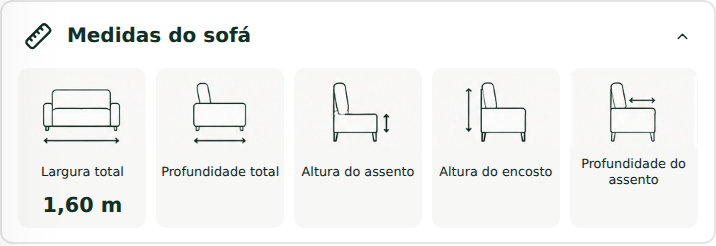
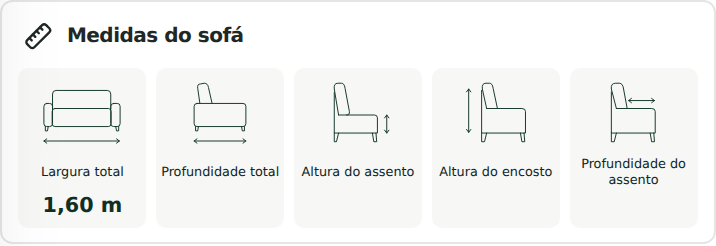
Keep sofa measurements open and render crisp vector drawings

diff --git a/src/pages/Produto.tsx b/src/pages/Produto.tsx
@@ -24,23 +24,12 @@ import { useSiteSettings, applyCardMarkup } from "@/contexts/SiteSettingsContext
 import { DiagramaViewer } from "@/components/DiagramaViewer";
 
 
-// Exact artwork from the approved reference. Each viewport shows only its drawing;
-// labels and values remain accessible HTML and continue to use the selected model.
-const measurementArtwork: Record<string, number> = {
-  width: 45, depth: 238, seatHeight: 428, backHeight: 625, seatDepth: 816,
-};
+// Vector contours traced from the approved artwork: crisp at every zoom level.
 function MeasurementDrawing({kind,label,large=false}:{kind:string;label:string;large?:boolean}) {
   return (
-    <svg viewBox="0 0 178 108"
-      role="img" aria-label={`Desenho técnico: ${label}`}
-      className={large ? "measurement-artwork measurement-artwork-large" : "measurement-artwork"}>
-      <rect width="178" height="108" fill="#f7f7f5" />
-      <svg aria-hidden="true" x="0" y="0" width="178" height="100"
-        viewBox={`${measurementArtwork[kind] ?? 45} 895 ${kind === "seatDepth" ? 171 : 178} 100`}
-        preserveAspectRatio="xMidYMin meet" overflow="hidden">
-        <image href="/images/medidas-referencia-aprovada.jpg" width="1024" height="1536" />
-      </svg>
-    </svg>
+    <img src={`/images/medidas/${kind}.svg`} alt={`Desenho técnico: ${label}`}
+      width="178" height="108"
+      className={large ? "measurement-artwork measurement-artwork-large" : "measurement-artwork"} />
   );
 }
 
@@ -73,7 +62,6 @@ export default function Produto() {
   const [sizeSheetOpen, setSizeSheetOpen] = useState(false);
   const [mainImageIdx, setMainImageIdx] = useState(0);
   const [lightboxOpen, setLightboxOpen] = useState(false);
-  const [measurementsExpanded, setMeasurementsExpanded] = useState(true);
   const [activeMeasurement, setActiveMeasurement] = useState<{label:string;kind:string;value:string} | null>(null);
   const [lightboxIdx, setLightboxIdx] = useState(0);
   const [previewFabric, setPreviewFabric] = useState<{ albumId: string; index: number } | null>(null);
@@ -328,11 +316,10 @@ export default function Produto() {
                 ];
                 return (
                   <section className="sofa-measurements mb-5" aria-label="Medidas do sofá">
-                    <button type="button" aria-expanded={measurementsExpanded} onClick={() => setMeasurementsExpanded(v => !v)} className="measurement-toggle" aria-controls="sofa-measurement-cards">
+                    <h2 className="measurement-toggle">
                       <Ruler className="measurement-ruler" /> Medidas do sofá
-                      {measurementsExpanded ? <ChevronUp className="ml-auto h-5 w-5" /> : <ChevronDown className="ml-auto h-5 w-5" />}
-                    </button>
-                    {measurementsExpanded && <div id="sofa-measurement-cards" className="measurement-cards">
+                    </h2>
+                    <div id="sofa-measurement-cards" className="measurement-cards">
                       {items.map(({ label, value, kind }) => {
                         return (
                           <button type="button" key={kind} onClick={() => setActiveMeasurement({label,kind,value:typeof value === "number" ? (value > 0 ? `${new Intl.NumberFormat("pt-BR", { minimumFractionDigits: 2, maximumFractionDigits: 2 }).format(value / 100)} m` : "") : (value || "")})} aria-label={`Ampliar ${label}`} className="measurement-card">
@@ -342,7 +329,7 @@ export default function Produto() {
                           </button>
                         );
                       })}
-                    </div>}
+                    </div>
                   </section>
                 );
               })()}

diff --git a/src/index.css b/src/index.css
@@ -319,7 +319,6 @@
   text-align: left; font-size: 2.95cqw; font-weight: 600;
 }
 .measurement-ruler { transform: scaleX(-1); width: 4.2cqw; height: 4.2cqw; flex-shrink: 0; }
-.measurement-toggle > svg:last-child { width: 2.5cqw; height: 2.5cqw; }
 .measurement-cards { display: grid; grid-template-columns: repeat(5, minmax(0, 1fr)); gap: 1.55%; width: 100%; }
 .measurement-card {
   display: flex; flex-direction: column; align-items: center;
@@ -336,7 +335,7 @@
   color: #10251e;
 }
 .measurement-value { margin-top: .5cqw; min-height: 3.8cqw; font-size: 3.05cqw; line-height: 1.2; font-weight: 700; white-space: nowrap; }
-.measurement-card:focus-visible, .measurement-toggle:focus-visible { outline: 2px solid #15372c; outline-offset: 3px; }
+.measurement-card:focus-visible { outline: 2px solid #15372c; outline-offset: 3px; }
 @media (hover: hover) and (pointer: fine) {
   .group:hover .product-photo-hint { opacity: 1; }
 }

diff --git a/docs/qa/pacote2-medidas/README.md b/docs/qa/pacote2-medidas/README.md
@@ -4,9 +4,9 @@ Referência aprovada: imagem enviada pelo proprietário em 31/10/2026.
 
 ## Implementação
 
-- Os cinco desenhos exibem a própria arte aprovada, por viewports SVG sobre a imagem original. Não foram redesenhados.
+- Os cinco desenhos usam contornos vetoriais em SVG traçados sobre as formas da referência aprovada. Não há imagem raster na ampliação.
 - Cartões HTML continuam clicáveis; a ampliação mostra o desenho correspondente e o valor dinâmico.
-- A seção mantém expandir/recolher e cinco colunas em todas as larguras.
+- A seção fica sempre aberta, sem botão ou seta de expandir/recolher, conforme solicitação posterior do proprietário. Cinco colunas são mantidas em todas as larguras.
 - Proporções, espaços, cor e tipografia da faixa escalam juntos com a largura disponível.
 - O aviso preto da foto aparece somente em dispositivos com ponteiro que suporta hover, evitando a retenção do aviso em telas de toque.
 - Nenhuma alteração em API, banco, preços ou produção. Destino exclusivo: branch preview.
@@ -15,8 +15,8 @@ Referência aprovada: imagem enviada pelo proprietário em 31/10/2026.
 
 - Build Vite e checagem TypeScript.
 - Cinco testes existentes de associações de variações e cache de restrições aprovados.
-- Playwright: 320, 375, 390 e 1440 px; cinco cartões na mesma linha, ausência de overflow horizontal, abertura de cada cartão e expansão/recolhimento.
-- A rodada final após o ajuste de recorte repete celular de 390 px e desktop de 1440 px.
+- Playwright: 320, 375, 390 e 1440 px; cinco cartões na mesma linha, ausência de overflow horizontal, abertura de cada cartão, vetores na ampliação e seção permanentemente aberta.
+- A rodada final com os vetores e a seção sempre aberta passou nas quatro larguras, sem erros de JavaScript.
 - Dados de interface: cópia de leitura do catálogo do Supabase de testes via API de Preview. Eventos de navegação foram interceptados, sem gravar dados.
 
 ## Dados de medidas
